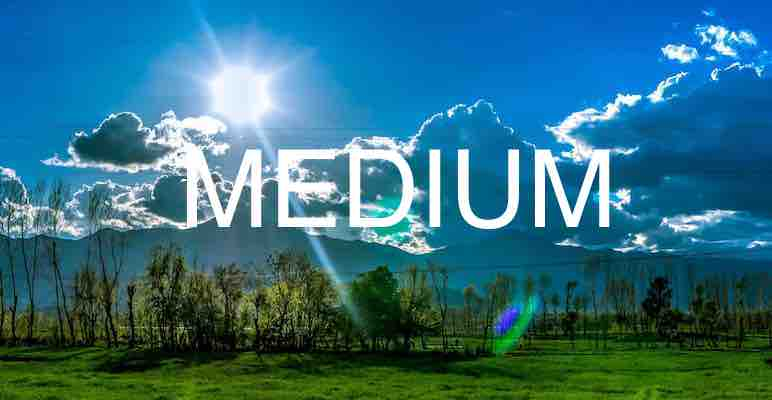
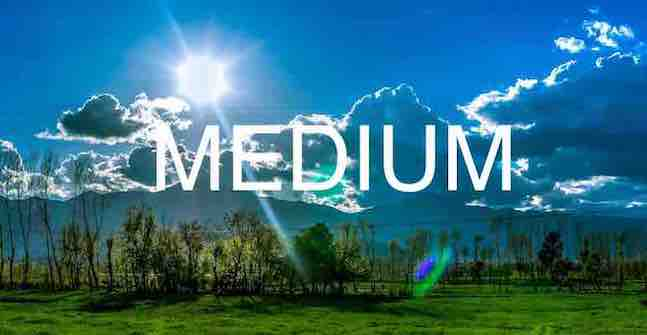
layout

diff --git a/assignments/lesson-7/styles/main-7.css b/assignments/lesson-7/styles/main-7.css
@@ -89,43 +89,42 @@ nav ul li a:hover {
     background-color: #F9F6E3;
 }
 
-main {}
+main {
+    
+}
 .mainlay{
     display:flex;
     flex-direction:column;
     text-align: center;
+    justify-content: center;
+    font-size: 20pt;
 }
 main h2 {
-    font-size: 40px;
+    font-size: 35px;
 }
 main h3{
-    font-size: 35px; 
+    font-size: 25px; 
 }
-main figure {   
-}
-figure .gridlay{
- display:grid;
- grid-gap: 100px;
+main figure { 
 }
 
-/* main figure img { 
-    width: 65%;
-}*/
+main figure img { 
+    width: 100%;
+}
 
 section {
     column-gap: 10px;
 }
-section h6{
-    display:none;
-}
 section h3{
-    font-size: 35px;
+    font-size: 20px;
 }
 section picture img {
-    display: flex;
 }
 section.forecast { 
     display: flex;
+    flex-direction: column;
+    justify-content: center;
+    font-size:15px;
 }
 article h3{
     font-size: 35px;
@@ -142,10 +141,12 @@ article p {
  /* fill the page in the small/phone view */
     flex-flow: row;
     justify-content:center;
-    text-align: center;
-    
-  
+    text-align: center;    
 }
+article p.town-article img {
+    width:20%;
+    float:left;
+  }  /* responsive images */
 
 footer {
   font-size: 12px;

diff --git a/assignments/lesson-7/styles/medium-7.css b/assignments/lesson-7/styles/medium-7.css
@@ -10,7 +10,7 @@ body header img .imglay{
     justify-content: center;
 }
     .hamburger{
-   display:none
+   display:none;
 }
     .show {
     flex-direction:row;
@@ -26,26 +26,29 @@ body header img .imglay{
   }    
  main {
    clear: both;
-   font-size:98%;
-   justify-content: center;
+   font-size:100%;
   }
  /*main figure img { 
    width: 50%; 
   }*/
-  main section{
+ article{
+   justify-content:center;      
    text-align: center;
-   flex-direction:row;
    column-count: 2;
   }
   section picture img {
-      
    }
-  section.forecast {}  /* show the 10-day forecast with the medium view and up */
+  section.forecast {
+    flex-direction: row;
+    justify-content: center;
+    font-size: 100%;
+    }  /* show the 10-day forecast with the medium view and up */
   article p {
-   column-count:2;
+  /* column-count:2;*/
    font-size:65%;
+   text-align: justify;
 }
   article p.town-article img { 
-  }  /* responsive images */
+    }  /* responsive images */
 
 }

diff --git a/assignments/lesson-7/franklin-7.html b/assignments/lesson-7/franklin-7.html
@@ -36,9 +36,9 @@
     </ul>    
   </nav>
     
-<main class="mainlay">
+<main class="mainlay">   
     <h2>The City of Franklin</h2>
-    <section >
+    <article>
     <figure>
       <img src="images/frandklin-small.jpg" alt="sunny cityview" sizes="98vw"
            srcset="images/frandklin-small.jpg 500w,
@@ -46,9 +46,8 @@
                    images/frandklin-large.jpg 1100w">
         <!--width="85" height="200" sizes="95vw"-->
     </figure>
-        
+      <section>  
     <h3>Weather Summary</h3>
-    <section>
        <div class="highlow">
            <p>High: <span id="highT">90</span>&deg;F</p>  
            <p>Low: <span id="lowT">66</span>&deg;F</p>
@@ -64,9 +63,9 @@
           <p>Max Wind Speed: <span id="windS">5</span> mph SW</p>
           <p><span id="windchill">Windchill:</span></p>
       </div> 
-        
     </section>
-    </section>
+    </article>
+    
     <div>
     <section class="forecast">
       <h3>10 Day Forecast</h3>
